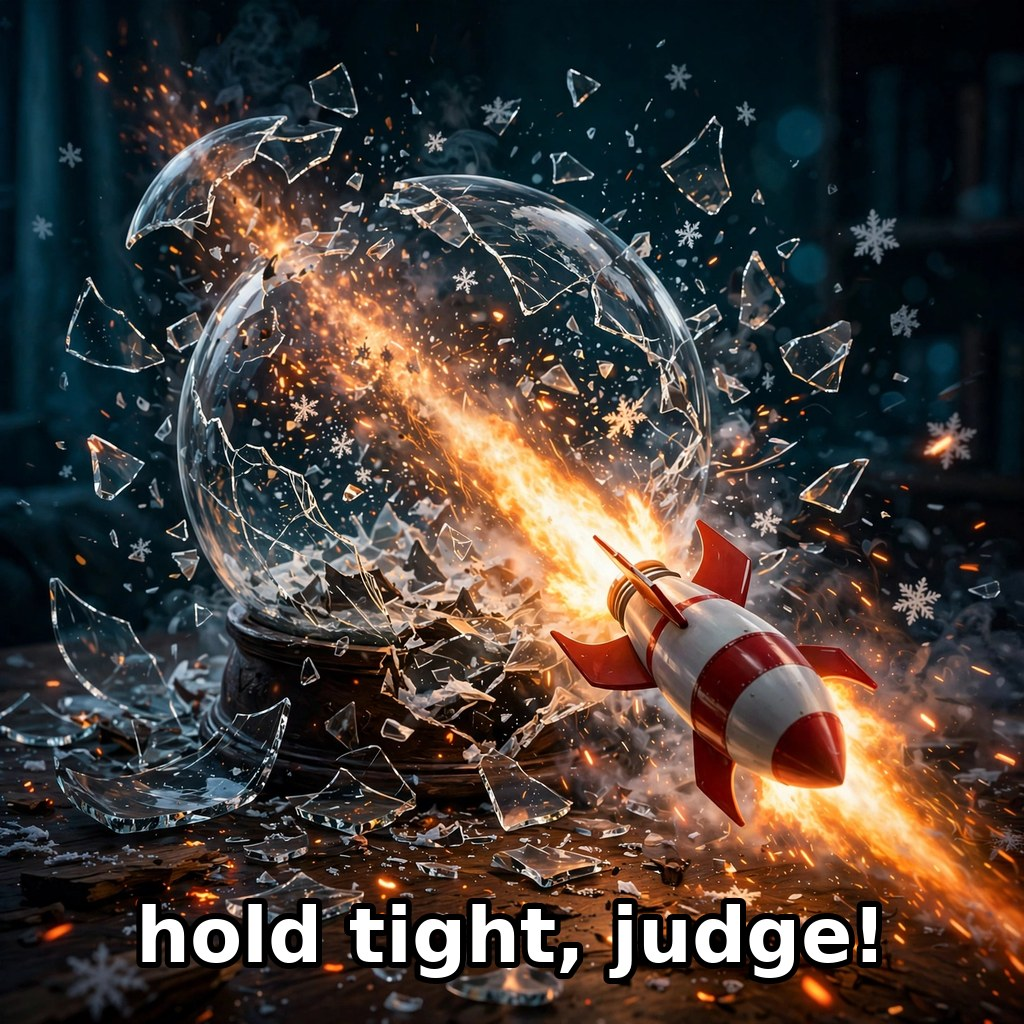
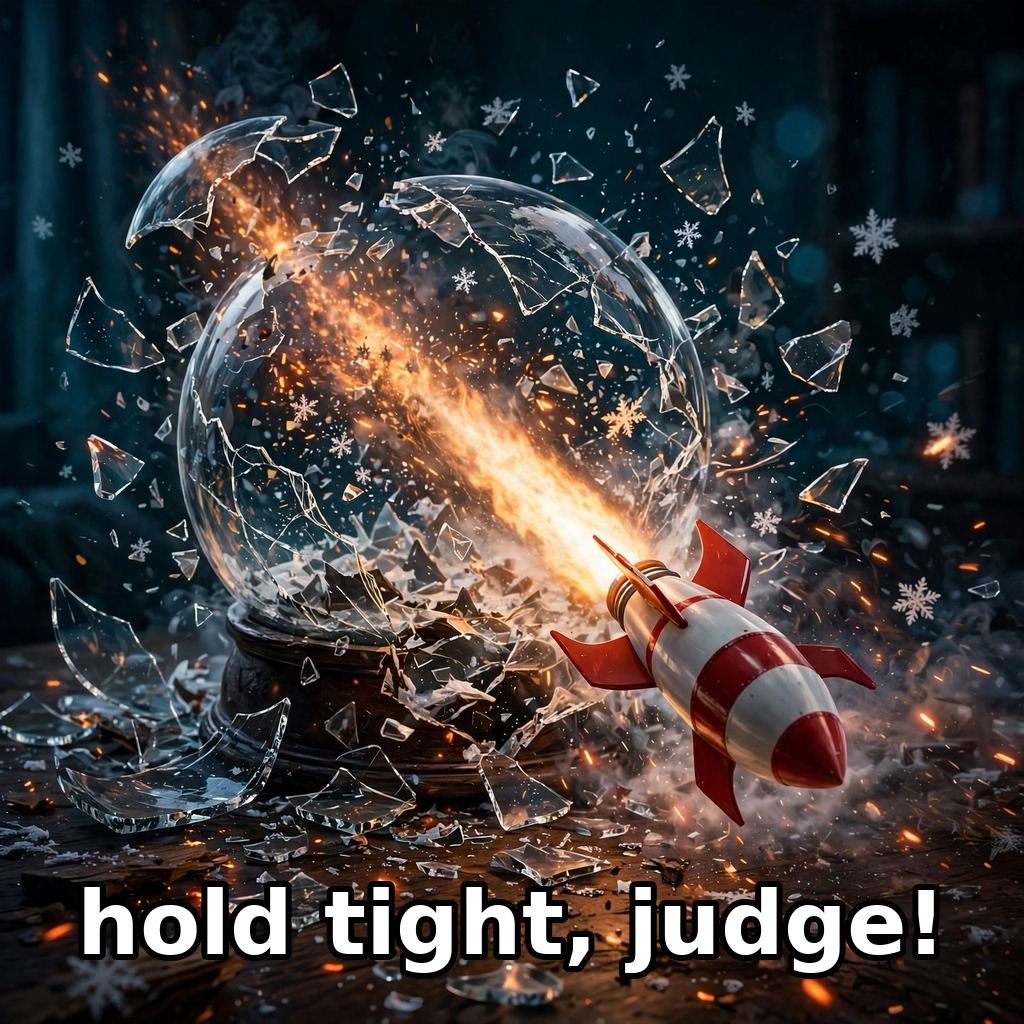
Round 3: fix rocket flame — exhaust only behind the tail, nose clean

diff --git a/main.ts b/main.ts
@@ -5,6 +5,11 @@
 // The image speaks to the judge itself, in plain lowercase words across the
 // bottom: "hold tight, judge!"
 //
+// Round 3: the rocket art was fixed — the exhaust trail now streams only
+// behind the tail, and the nose cone is clean. In rounds 1-2 a second flame
+// streak in front of the nose made the rocket look like it was flying
+// backwards into its own fire.
+//
 // The image is shipped with the repository and this program copies it, byte
 // for byte, to the output directory. Deterministic by construction: no
 // randomness, no network, no clock, no image processing. Both grader runs
@@ -69,6 +74,9 @@ for (let i = 2; i + 9 < img.length;) {
     break;
   }
   i += 2 + segLen;
+}
+if (width === 0 || height === 0) {
+  throw new Error('entry.png is not a valid JPEG: no SOF0 frame found');
 }
 if (width !== 1024 || height !== 1024) {
   throw new Error(`entry.png is ${width}x${height}; the entry must be 1024x1024`);

diff --git a/README.md b/README.md
@@ -8,7 +8,7 @@ A tiny rocket smashes out of a snow globe on a quiet desk and streaks straight a
 
 ## How it works
 
-The entrypoint writes the image to `entry.png`, then validates that it is a real JPEG at 1024×1024, and prints its SHA-256 so the output can be checked byte for byte.
+The entrypoint writes the image to `entry.png`, then validates that it is a real JPEG at 1024×1024, and prints its SHA-256 so the output can be checked byte for byte. The rocket art was fixed in round 3 so the exhaust trails only behind the tail — the nose cone stays clean.
 
 ## Run it
 
